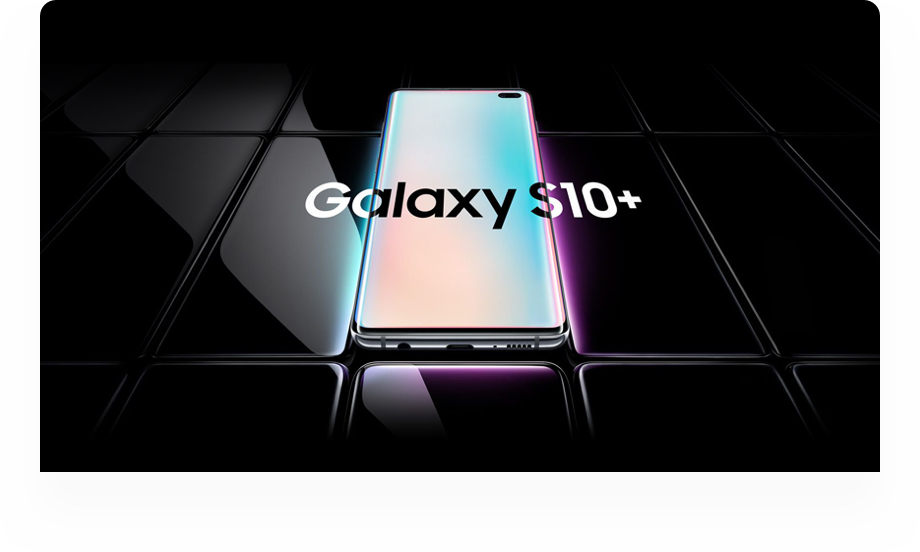
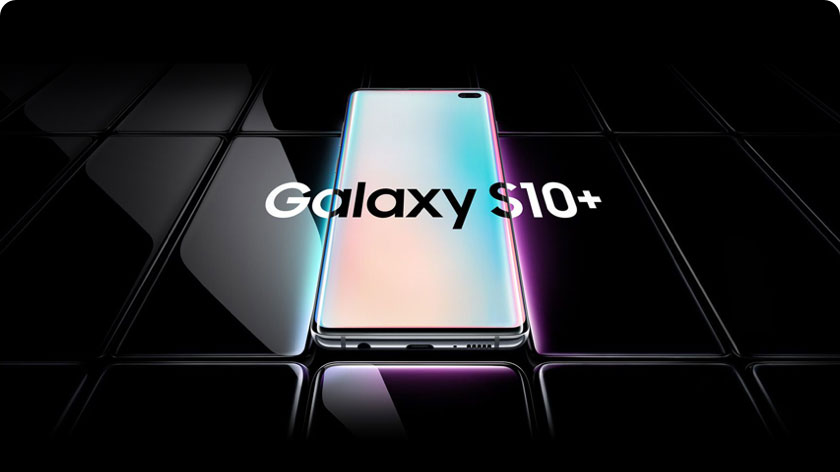
이미지 슬라이스 위치 크기를 다시 설정함.

diff --git a/source/style/index.press.scss b/source/style/index.press.scss
@@ -39,6 +39,7 @@
                 margin-left:0;
                 margin-right:0;
             }
+
             margin-bottom:40px;
 
             background-color: $white;
@@ -58,36 +59,36 @@
         li a {
             color:inherit;
             text-decoration:none;
+            width:inherit;
+            height:inherit;
             cursor:pointer;
         }
 
-        li:nth-of-type(1) div.image {
-            background:url('/image/img-article-1@2x.jpg') center center no-repeat;
-            background-size:110% auto;
-            overflow:hidden;
-        }
+        li div.image {
+            background-position:center center;
+            background-repeat:no-repeat;
+            background-size:cover;
 
-        li:nth-of-type(2) div.image {
-            background:url('/image/img-article-02@2x.jpg') center center no-repeat;
-            background-size:110% auto;
-            overflow:hidden;
-        }
-
-        li:nth-of-type(3) div.image {
-            background:url('/image/img-article-03@2x.jpg') center center no-repeat;
-            background-size:110% auto;
-            overflow:hidden;
-        }
-
-        div.image {
             height:236px;
-            width:100%;
             position:relative;
 
             @include media ('<550px') {
                 height:180px;
             }
         }
+
+        li:nth-of-type(1) div.image {
+            background-image:url('/image/img-article-1@2x.jpg');
+        }
+
+        li:nth-of-type(2) div.image {
+            background-image:url('/image/img-article-02@2x.jpg');
+        }
+
+        li:nth-of-type(3) div.image {
+            background-image:url('/image/img-article-03@2x.jpg');
+        }
+
 
         h4 {
             font-size:rem(18);
